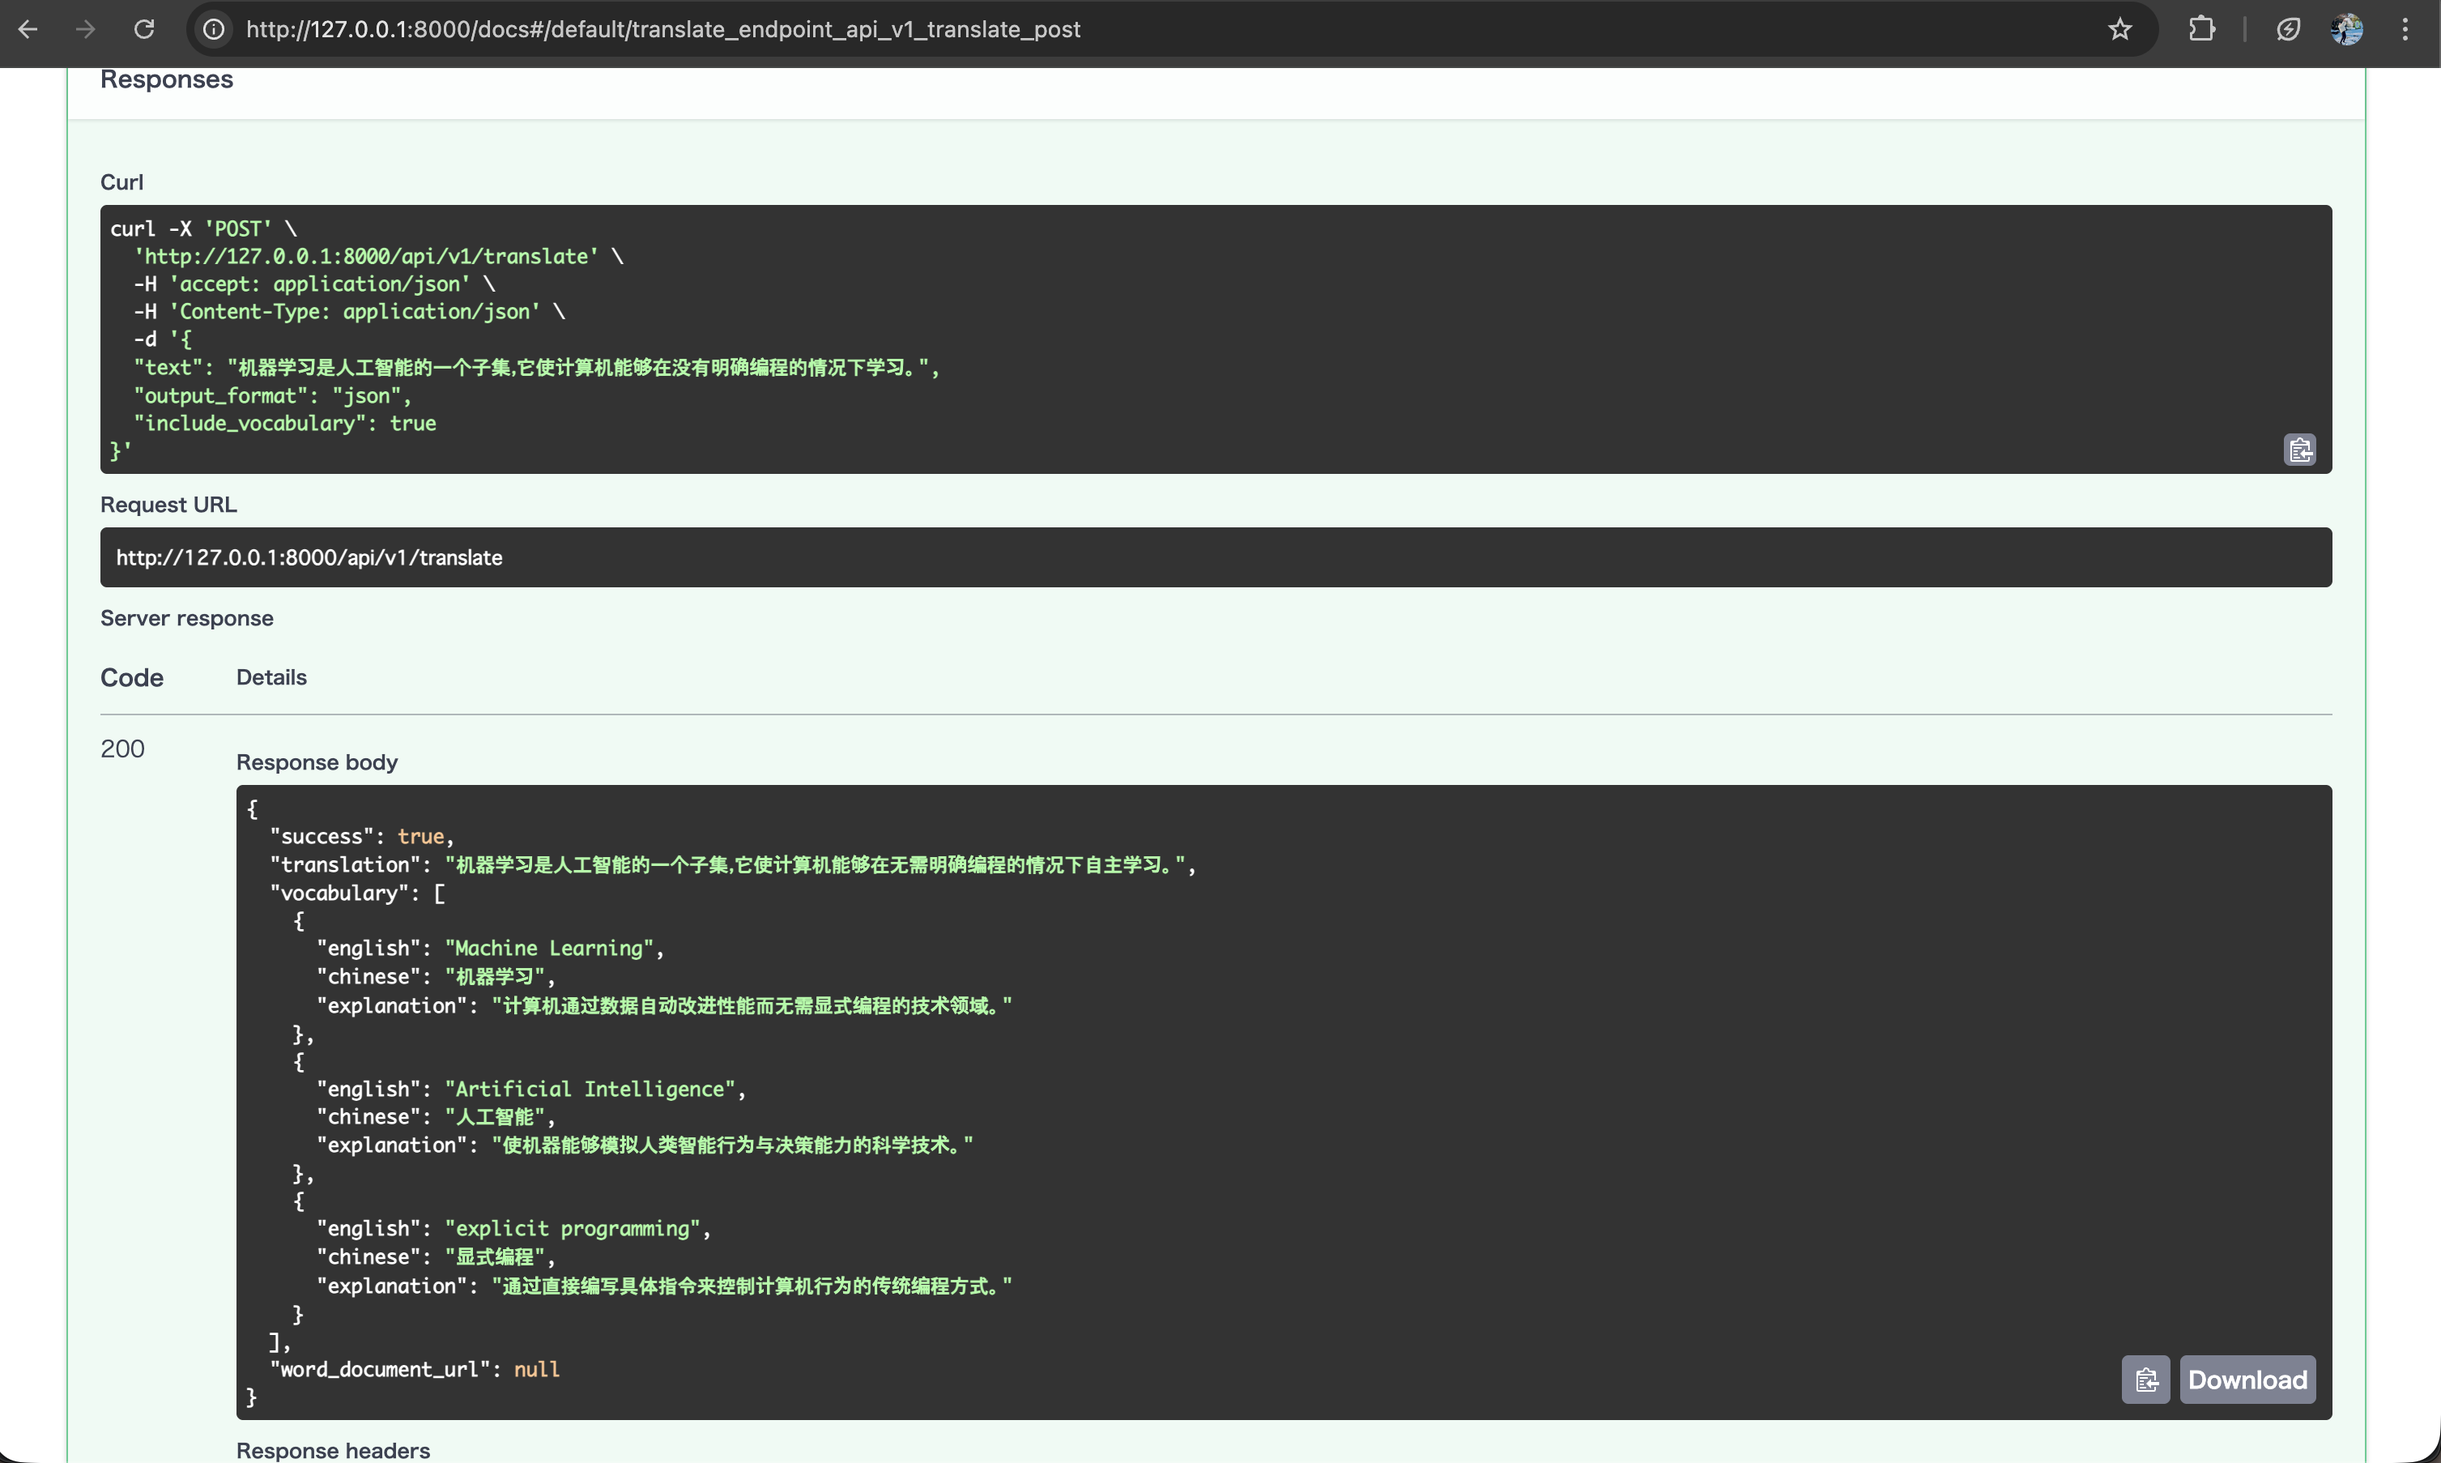
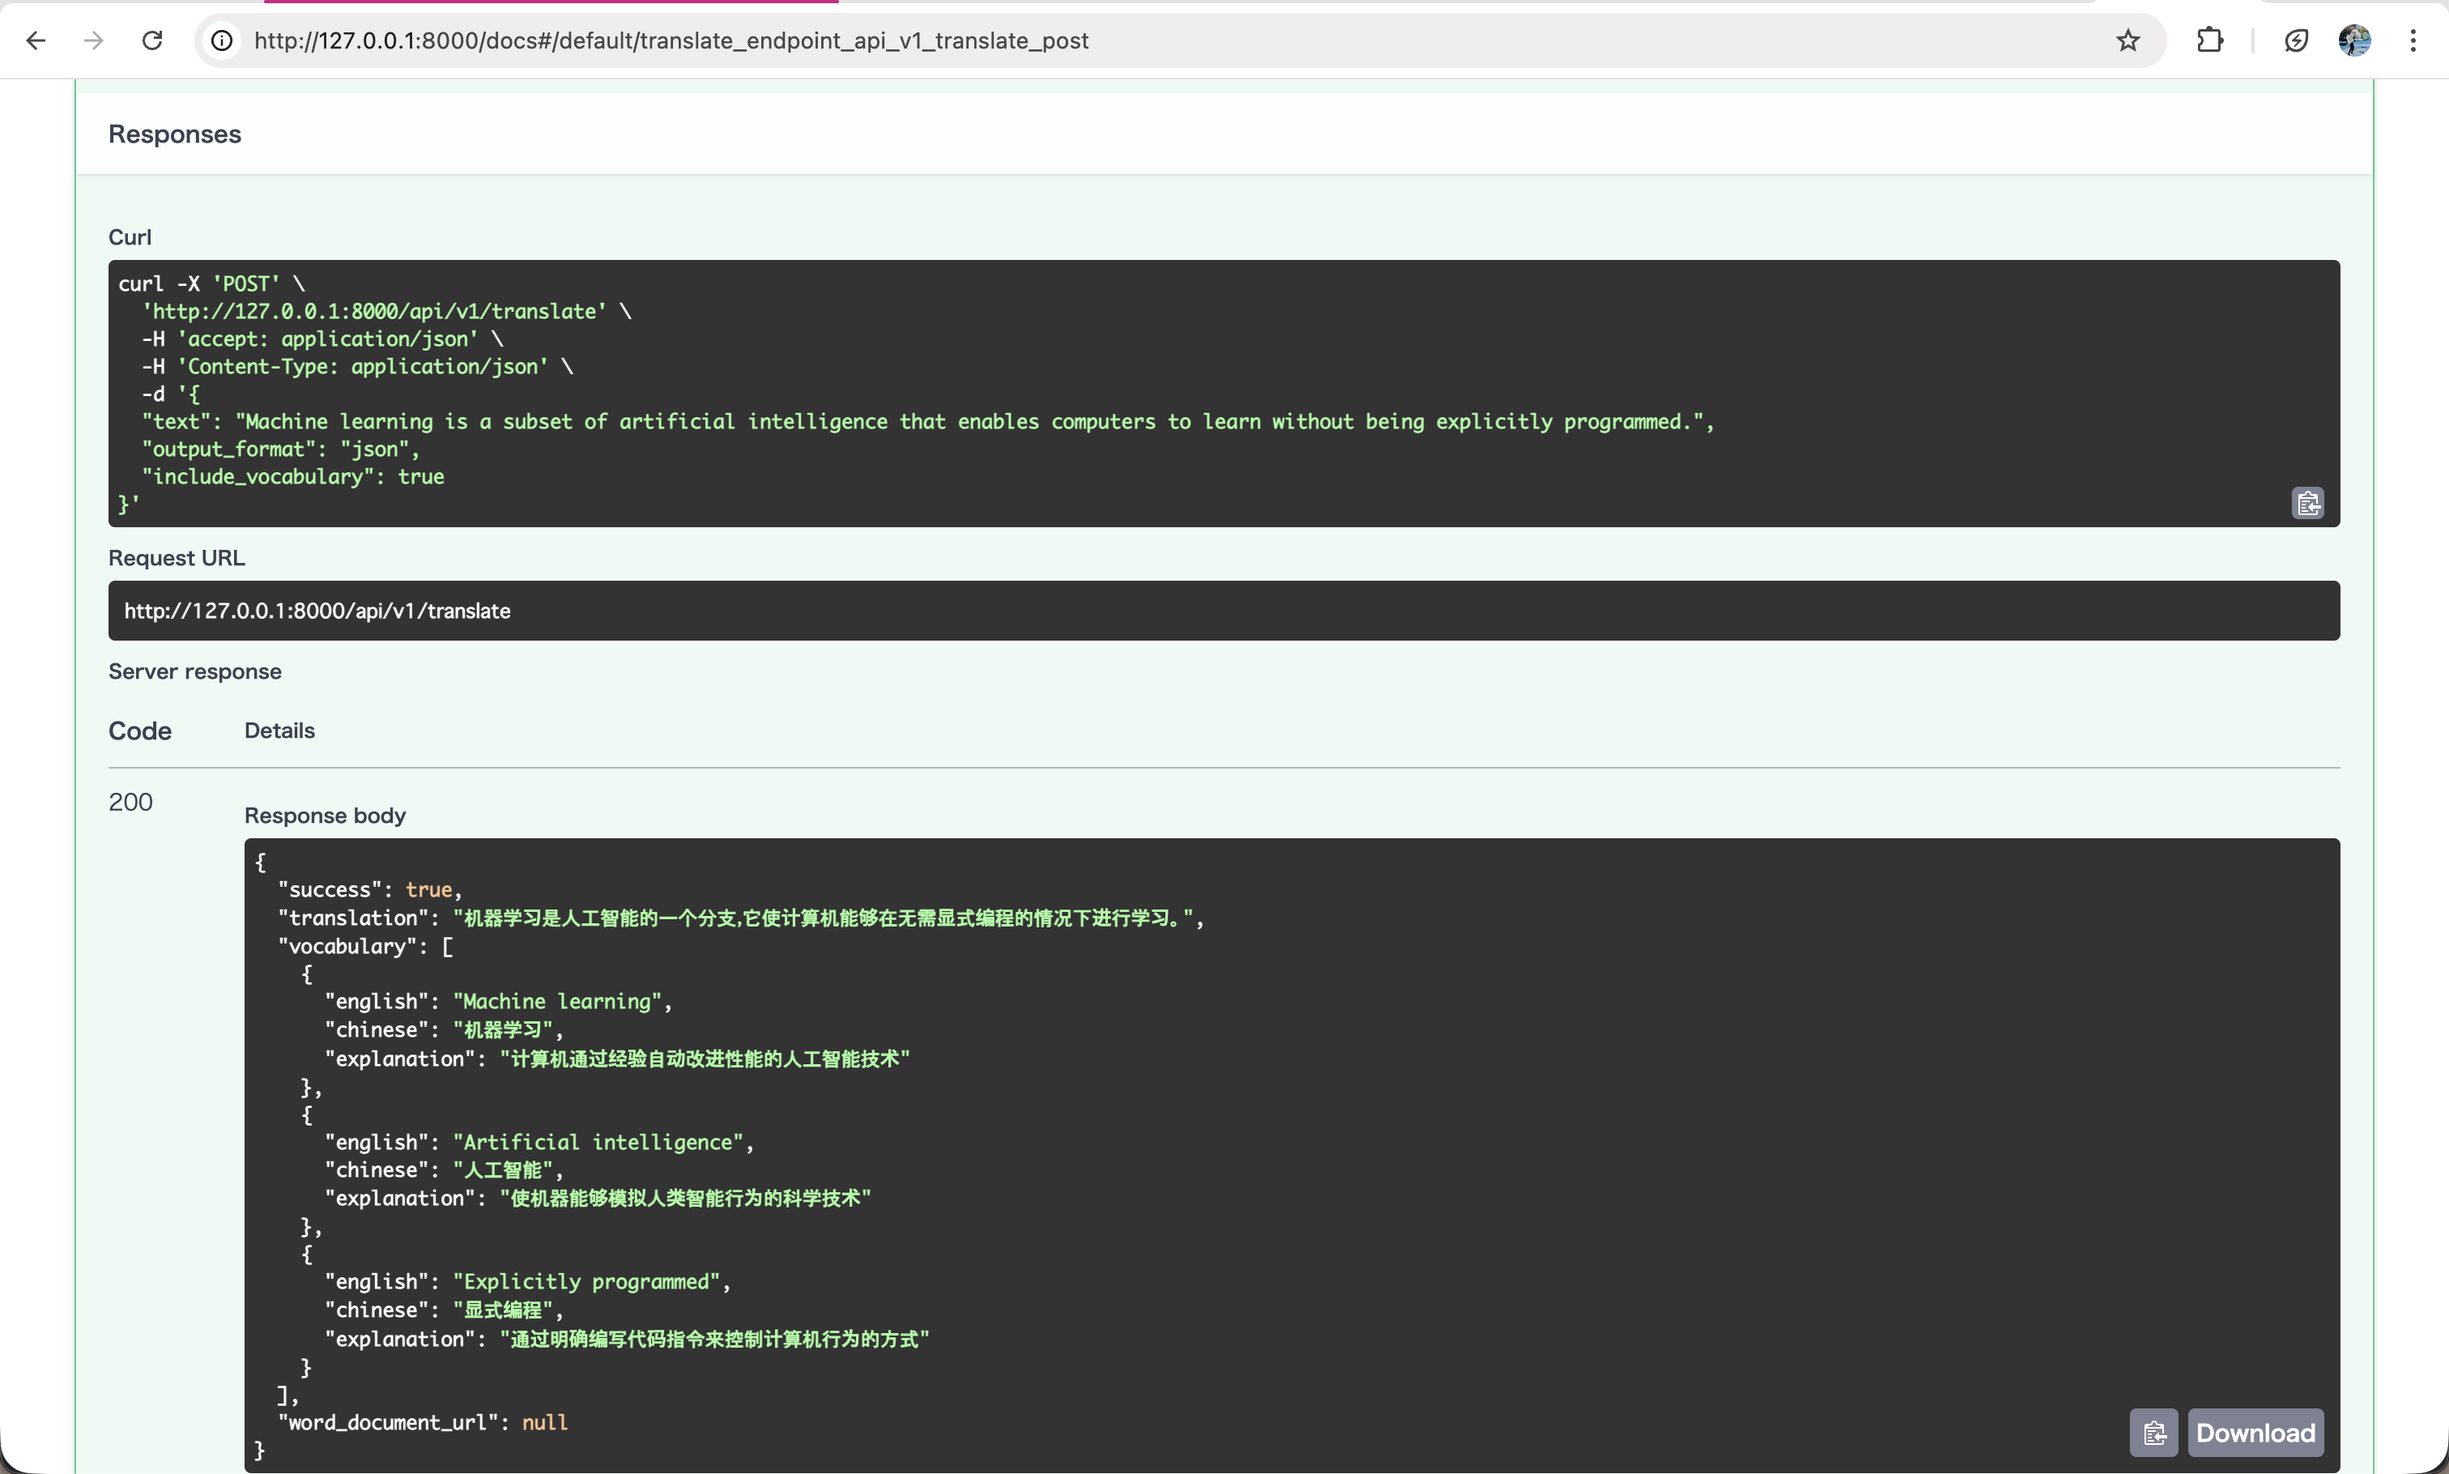
feat(docs): update example

diff --git a/README.md b/README.md
@@ -5,7 +5,7 @@ FastAPI implementation of the **required** module:
 - English → Chinese translation
 - Professional vocabulary extraction
 - Optional Word (docx) export
-- Full OpenAPI docs at `/docs`
+- Full docs at `/docs`
 - Tests (`pytest`) at `src/tests/`
 
 This project is **Module 1 only** (no audio/video code).
